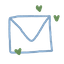
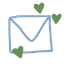
Finishing touches
- added more image links
- created a form page
- edited the layout for some of the pages
- added javascript to send emails through the form

Changed region(s): [[0.1875, 0.7188, 0.375, 0.9375], [0.5, 0.0312, 0.7188, 0.2188], [0.7812, 0.1875, 0.9688, 0.375]]

diff --git a/Project/Resume/experience.html b/Project/Resume/experience.html
@@ -22,8 +22,14 @@
                 <li><a href="education.html">Education</a></li>
                 <li><a href="experience.html">Experience</a></li>
             </ul>
-            <a class="icon-link" href="images/Gloria Hansen-Resume '23 copy.pdf" download>
-                <img src="images/resume.png" alt="Icon">
+            <a class="icon-link" href="form.html">
+                <img src="images/email.png" alt="Email Icon">
+            </a>
+            <a class="icon-link2" href="images/Gloria Hansen-Resume '23 copy.pdf" download>
+                <img src="images/resume.png" alt="PDF Icon">
+            </a>
+            <a class="icon-link3" href="https://app.joinhandshake.com/stu/users/40587529" target="_blank">
+                <img src="images/handshake.png" alt="Handshake Icon">
             </a>
         </nav>
     </header>
@@ -34,26 +40,25 @@
             <li>
                 <h3 id="heading">USU IT Computer Lab -</h3>
                 <p id="paragraph"> Consultant, Sept. 2022 - Present</p><br><br>
-                <p>Handled lab equipment and cleaned keyboards, monitors, and disk drivers. Supported all computer lab operations. Monitored systems in operation and quickly troubleshooted errors. Responded to customer inquiries and provided technical assistance over the phone and in person.</p>
-            </li>
-            <li>
+                <article>Handled lab equipment and cleaned keyboards, monitors, and disk drivers. Supported all computer lab operations. Monitored systems in operation and quickly troubleshooted errors. Responded to customer inquiries and provided technical assistance over the phone and in person.</article>
+            <br>
+            <br>
+            <br>
                 <h3 id="heading">USU IT Computer Lab -</h3> 
                 <p id="paragraph"> Office and Supply Manager, Jan. 2023 - Sept. 2023</p><br><br>
-                <p>Helped plan and execute IT-related events over the Summer for USU. Restocked all computer labs and responded quickly to any issues. Worked closely with other IT employees and was tasked with the upkeep and cleanliness of the labs. I stepped down to focus better on my school work.</p>
-            </li>
-        </ul>
-        <br>
-        <br>
-        <ul>
-            <li>
+                <article>Helped plan and execute IT-related events over the Summer for USU. Restocked all computer labs and responded quickly to any issues. Worked closely with other IT employees and was tasked with the upkeep and cleanliness of the labs. I stepped down to focus better on my school work.</article>
+            <br>
+            <br>
+            <br>
                 <h3 id="heading">Plato's Closet -</h3>
                 <p id="paragraph"> Retail Clerk, Nov. 2021 - Aug. 2022</p><br><br>
-                <p>Communicated with supervisors and co-workers concerning day-to-day operations to promote goals and benefits. Bought and sold gently used and new clothing. Managed the floor to ensure a clean store for customers. Checked out customers and ensured cash registers were properly used.</p>
-            </li>
-            <li>
+                <article>Communicated with supervisors and co-workers concerning day-to-day operations to promote goals and benefits. Bought and sold gently used and new clothing. Managed the floor to ensure a clean store for customers. Checked out customers and ensured cash registers were properly used.</article>
+            <br>
+            <br>
+            <br>
                 <h3 id="heading">Chick-fil-a -</h3>
                 <p id="paragraph"> Server, Feb. 2021 - Nov. 2021</p><br><br>
-                <p>Greeted customers promptly, took orders, and kept the flow of traffic moving. Wiped the counters and sanitized equipment to maintain clean food prep and dining areas. Restocked workstations with supplies. Reduced customer wait times by quickly operating custom windows and sales registers. Followed food safety procedures and readied customers' take-out orders in secure bags.</p>
+                <article>Greeted customers promptly, took orders, and kept the flow of traffic moving. Wiped the counters and sanitized equipment to maintain clean food prep and dining areas. Restocked workstations with supplies. Reduced customer wait times by quickly operating custom windows and sales registers. Followed food safety procedures and readied customers' take-out orders in secure bags.</article>
             </li>
         </ul>
     </div>

diff --git a/Project/Resume/form.html b/Project/Resume/form.html
@@ -1,0 +1,102 @@
+<!-- NOT WORKABLE YET -->
+
+<!DOCTYPE html>
+<html lang="en">
+
+<head>
+    <meta charset="UTF-8">
+    <meta name="viewport" content="width=device-width, initial-scale=1.0">
+    <link rel="stylesheet" href="style.css">
+    <link rel="stylesheet"
+        href="https://fonts.googleapis.com/css2?family=Playfair+Display|League+Gothic|Roboto:wght@300&display=swap">
+    <title>Education - Gloria Hansen</title>
+
+</head>
+
+<body>
+    <header>
+        <h1 id="altered-text">Gloria Hansen</h1>
+        <nav>
+            <div class="logo">
+                <img src="images/logo.png" alt="logo image">
+            </div>
+            <ul>
+                <li><a href="index.html">Home</a></li>
+                <li><a href="about.html">About Me</a></li>
+                <li><a href="education.html">Education</a></li>
+                <li><a href="experience.html">Experience</a></li>
+            </ul>
+            <a class="icon-link" href="form.html">
+                <img src="images/email.png" alt="Email Icon">
+            </a>
+            <a class="icon-link2" href="images/Gloria Hansen-Resume '23 copy.pdf" download>
+                <img src="images/resume.png" alt="PDF Icon">
+            </a>
+            <a class="icon-link3" href="https://app.joinhandshake.com/stu/users/40587529" target="_blank">
+                <img src="images/handshake.png" alt="Handshake Icon">
+            </a>
+        </nav>
+    </header>
+
+    <body>
+        <div class="container">
+            <h2 id="altered-text">Email Me Your Questions</h2>
+            <form id="jobOfferForm">
+                <!-- Email Address -->
+                <label for="email">Your Email:</label>
+                <input type="email" id="email" name="email" required>
+                <br>
+            
+                <!-- Subject -->
+                <label for="subject">Subject:</label>
+                <input type="text" id="subject" name="subject" required>
+                <br>
+            
+                <!-- Text Area for Message -->
+                <label for="message">Your Message:</label>
+                <textarea id="message" name="message" rows="4" required></textarea>
+                <br>
+            
+                <!-- Submit Button -->
+                <input type="button" value="Submit" onclick="submitForm()">
+            </form>
+
+            <script>
+                function submitForm() {
+                    const form = document.getElementById('jobOfferForm');
+                    
+                    // Check if all required fields are filled out
+                    if (form.checkValidity()) {
+                        // Get form data
+                        const formData = new FormData(form);
+            
+                        // Send a POST request to the server-side script
+                        fetch('emailform.php', {
+                            method: 'POST',
+                            body: formData
+                        })
+                            .then(response => response.text())
+                            .then(data => {
+                                // Handle the response (optional)
+                                console.log(data);
+                                alert("Email sent successfully!");
+            
+                                // Redirect back to the referring page
+                                const referringPage = document.referrer;
+                                window.location.href = referringPage;
+                            })
+                            .catch(error => {
+                                // Handle errors (optional)
+                                console.error('Error:', error);
+                                alert("Error sending email. Please try again.");
+                            });
+                    } else {
+                        // Form is invalid, display an error or take appropriate action
+                        alert("Please fill out all required fields.");
+                    }
+                }
+            </script>
+            </div>
+    </body>
+
+</html>

diff --git a/Project/Resume/style.css b/Project/Resume/style.css
@@ -49,7 +49,6 @@ li {
     background-color: #fffff2;
 }
 
-
 h1 {
     text-align: left;
     margin-bottom: 20px;
@@ -96,16 +95,25 @@ nav a:hover {
     transition: color .5s;
 }
 
-p {
+p,
+label,
+article {
     font-weight: lighter;
 }
 
 h3,
-p {
+p, 
+label {
     font-family: 'Roboto', sans-serif;
     font-size: 20px;
     color: #424B54;
     font-style: italic;
+}
+
+article {
+    font-family: 'Roboto', sans-serif;
+    color: #424B54;
+    font-size: 18px;
 }
 
 .container {
@@ -114,10 +122,20 @@ p {
 
 .icon-link {
     position: absolute;
-    padding-right: 2px;
     top: 10px;
-    right: 10px;
-    bottom: 10px;
+    right: 20px;
+}
+
+.icon-link2 {
+    position: absolute;
+    top: 10px;
+    right: 100px;
+}
+
+.icon-link3 {
+    position: absolute;
+    top: 10px;
+    right: 180px;
 }
 
 #heading,
@@ -127,9 +145,9 @@ p {
 
 /* Carousel Styling */
 .carousel {
-    width: 50%; /* Set to 100% to take up the full width of the container */
+    width: 50%;
     margin: auto;
-    overflow: hidden; /* Uncomment to hide overflow and hide next images */
+    overflow: hidden; 
     position: relative;
 }
 
@@ -169,4 +187,40 @@ img {
 
 .next {
     right: 10px;
+}
+
+/* Form Styling */
+form {
+    background-color: #C0D0DA;
+    max-width: 400px;
+    margin: 20px auto;
+    padding: 20px;
+    box-shadow: 0 0 10px rgba(0, 0, 0, 0.1);
+    border-radius: 8px;
+}
+
+/* This helps with the spacing! */
+label {
+    display: block;
+    margin-bottom: 8px;
+}
+
+input,
+textarea {
+    color: #424B54;
+    font-family: 'Roboto', sans-serif;
+    font-size: 20px;
+    width: 100%;
+    padding: 10px;
+    margin-bottom: 16px;
+    font-weight: lighter;
+    
+}
+
+input[type="button"] {
+    background-color: #80A1C1;
+    color: #fffff2;
+    padding: 10px 15px;
+    border: none;
+    border-radius: 4px;
 }

diff --git a/Project/Resume/about.html b/Project/Resume/about.html
@@ -23,8 +23,14 @@
                 <li><a href="education.html">Education</a></li>
                 <li><a href="experience.html">Experience</a></li>
             </ul>
-            <a class="icon-link" href="images/Gloria Hansen-Resume '23 copy.pdf" download>
-                <img src="images/resume.png" alt="Icon">
+            <a class="icon-link" href="form.html">
+                <img src="images/email.png" alt="Email Icon">
+            </a>
+            <a class="icon-link2" href="images/Gloria Hansen-Resume '23 copy.pdf" download>
+                <img src="images/resume.png" alt="PDF Icon">
+            </a>
+            <a class="icon-link3" href="https://app.joinhandshake.com/stu/users/40587529" target="_blank">
+                <img src="images/handshake.png" alt="Handshake Icon">
             </a>
         </nav>
     </header>
@@ -33,7 +39,7 @@
         <h2 id="altered-text">About Me</h2>
         <p>My name is Gloria Hansen, and I am attending Utah State University.
             I am a sophomore and plan to graduate in 2026 with a Computer Science degree. I
-            plan to explore web edvelopment and design as a career.</p>
+            plan to explore web development and design as a career.</p>
         <br>
         <p>I was born in Salt Lake but grew up in Dallas, Texas. My mom and dad got married
             while in school in Utah. They quickly had my older sister, and my mom dropped out

diff --git a/Project/Resume/education.html b/Project/Resume/education.html
@@ -23,8 +23,14 @@
                 <li><a href="education.html">Education</a></li>
                 <li><a href="experience.html">Experience</a></li>
             </ul>
-            <a class="icon-link" href="images/Gloria Hansen-Resume '23 copy.pdf" download>
-                <img src="images/resume.png" alt="Icon">
+            <a class="icon-link" href="form.html">
+                <img src="images/email.png" alt="Email Icon">
+            </a>
+            <a class="icon-link2" href="images/Gloria Hansen-Resume '23 copy.pdf" download>
+                <img src="images/resume.png" alt="PDF Icon">
+            </a>
+            <a class="icon-link3" href="https://app.joinhandshake.com/stu/users/40587529" target="_blank">
+                <img src="images/handshake.png" alt="Handshake Icon">
             </a>
         </nav>
     </header>

diff --git a/Project/Resume/index.html b/Project/Resume/index.html
@@ -22,8 +22,14 @@
                 <li><a href="education.html">Education</a></li>
                 <li><a href="experience.html">Experience</a></li>
             </ul>
-            <a class="icon-link" href="images/Gloria Hansen-Resume '23 copy.pdf" download>
-                <img src="images/resume.png" alt="Icon">
+            <a class="icon-link" href="form.html">
+                <img src="images/email.png" alt="Email Icon">
+            </a>
+            <a class="icon-link2" href="images/Gloria Hansen-Resume '23 copy.pdf" download>
+                <img src="images/resume.png" alt="PDF Icon">
+            </a>
+            <a class="icon-link3" href="https://app.joinhandshake.com/stu/users/40587529" target="_blank">
+                <img src="images/handshake.png" alt="Handshake Icon">
             </a>
         </nav>
     </header>

diff --git a/Project/Resume/emailform.php b/Project/Resume/emailform.php
@@ -1,0 +1,39 @@
+<!-- This will allow an email to actually be sent to me -->
+<!-- NOT WORKABLE YET -->
+
+
+<?php
+if ($_SERVER["REQUEST_METHOD"] == "POST") {
+    // Retrieve form data with validation
+    $senderEmail = filter_var($_POST["email"], FILTER_VALIDATE_EMAIL);
+    $subject = htmlspecialchars($_POST["subject"]);
+    $message = htmlspecialchars($_POST["message"]);
+
+    // Validate all fields
+    if (!$senderEmail || empty($subject) || empty($message)) {
+        http_response_code(400);
+        echo "Please fill out all fields with valid information.";
+        exit();
+    }
+
+    // Set your email address as the recipient
+    $recipientEmail = "gloriagracehansen@gmail.com";
+
+    // Set email headers
+    $headers = "From: $senderEmail\r\n";
+    $headers .= "Reply-To: $senderEmail\r\n";
+    $headers .= "Content-Type: text/html; charset=UTF-8\r\n";
+
+    // Send the email
+    if (mail($recipientEmail, $subject, $message, $headers)) {
+        // Respond with a success message
+        echo "Email sent successfully!";
+    } else {
+        // Handle email sending failure
+        http_response_code(500);
+        echo "Failed to send email. Please try again later.";
+    }
+
+    exit();
+}
+?>
